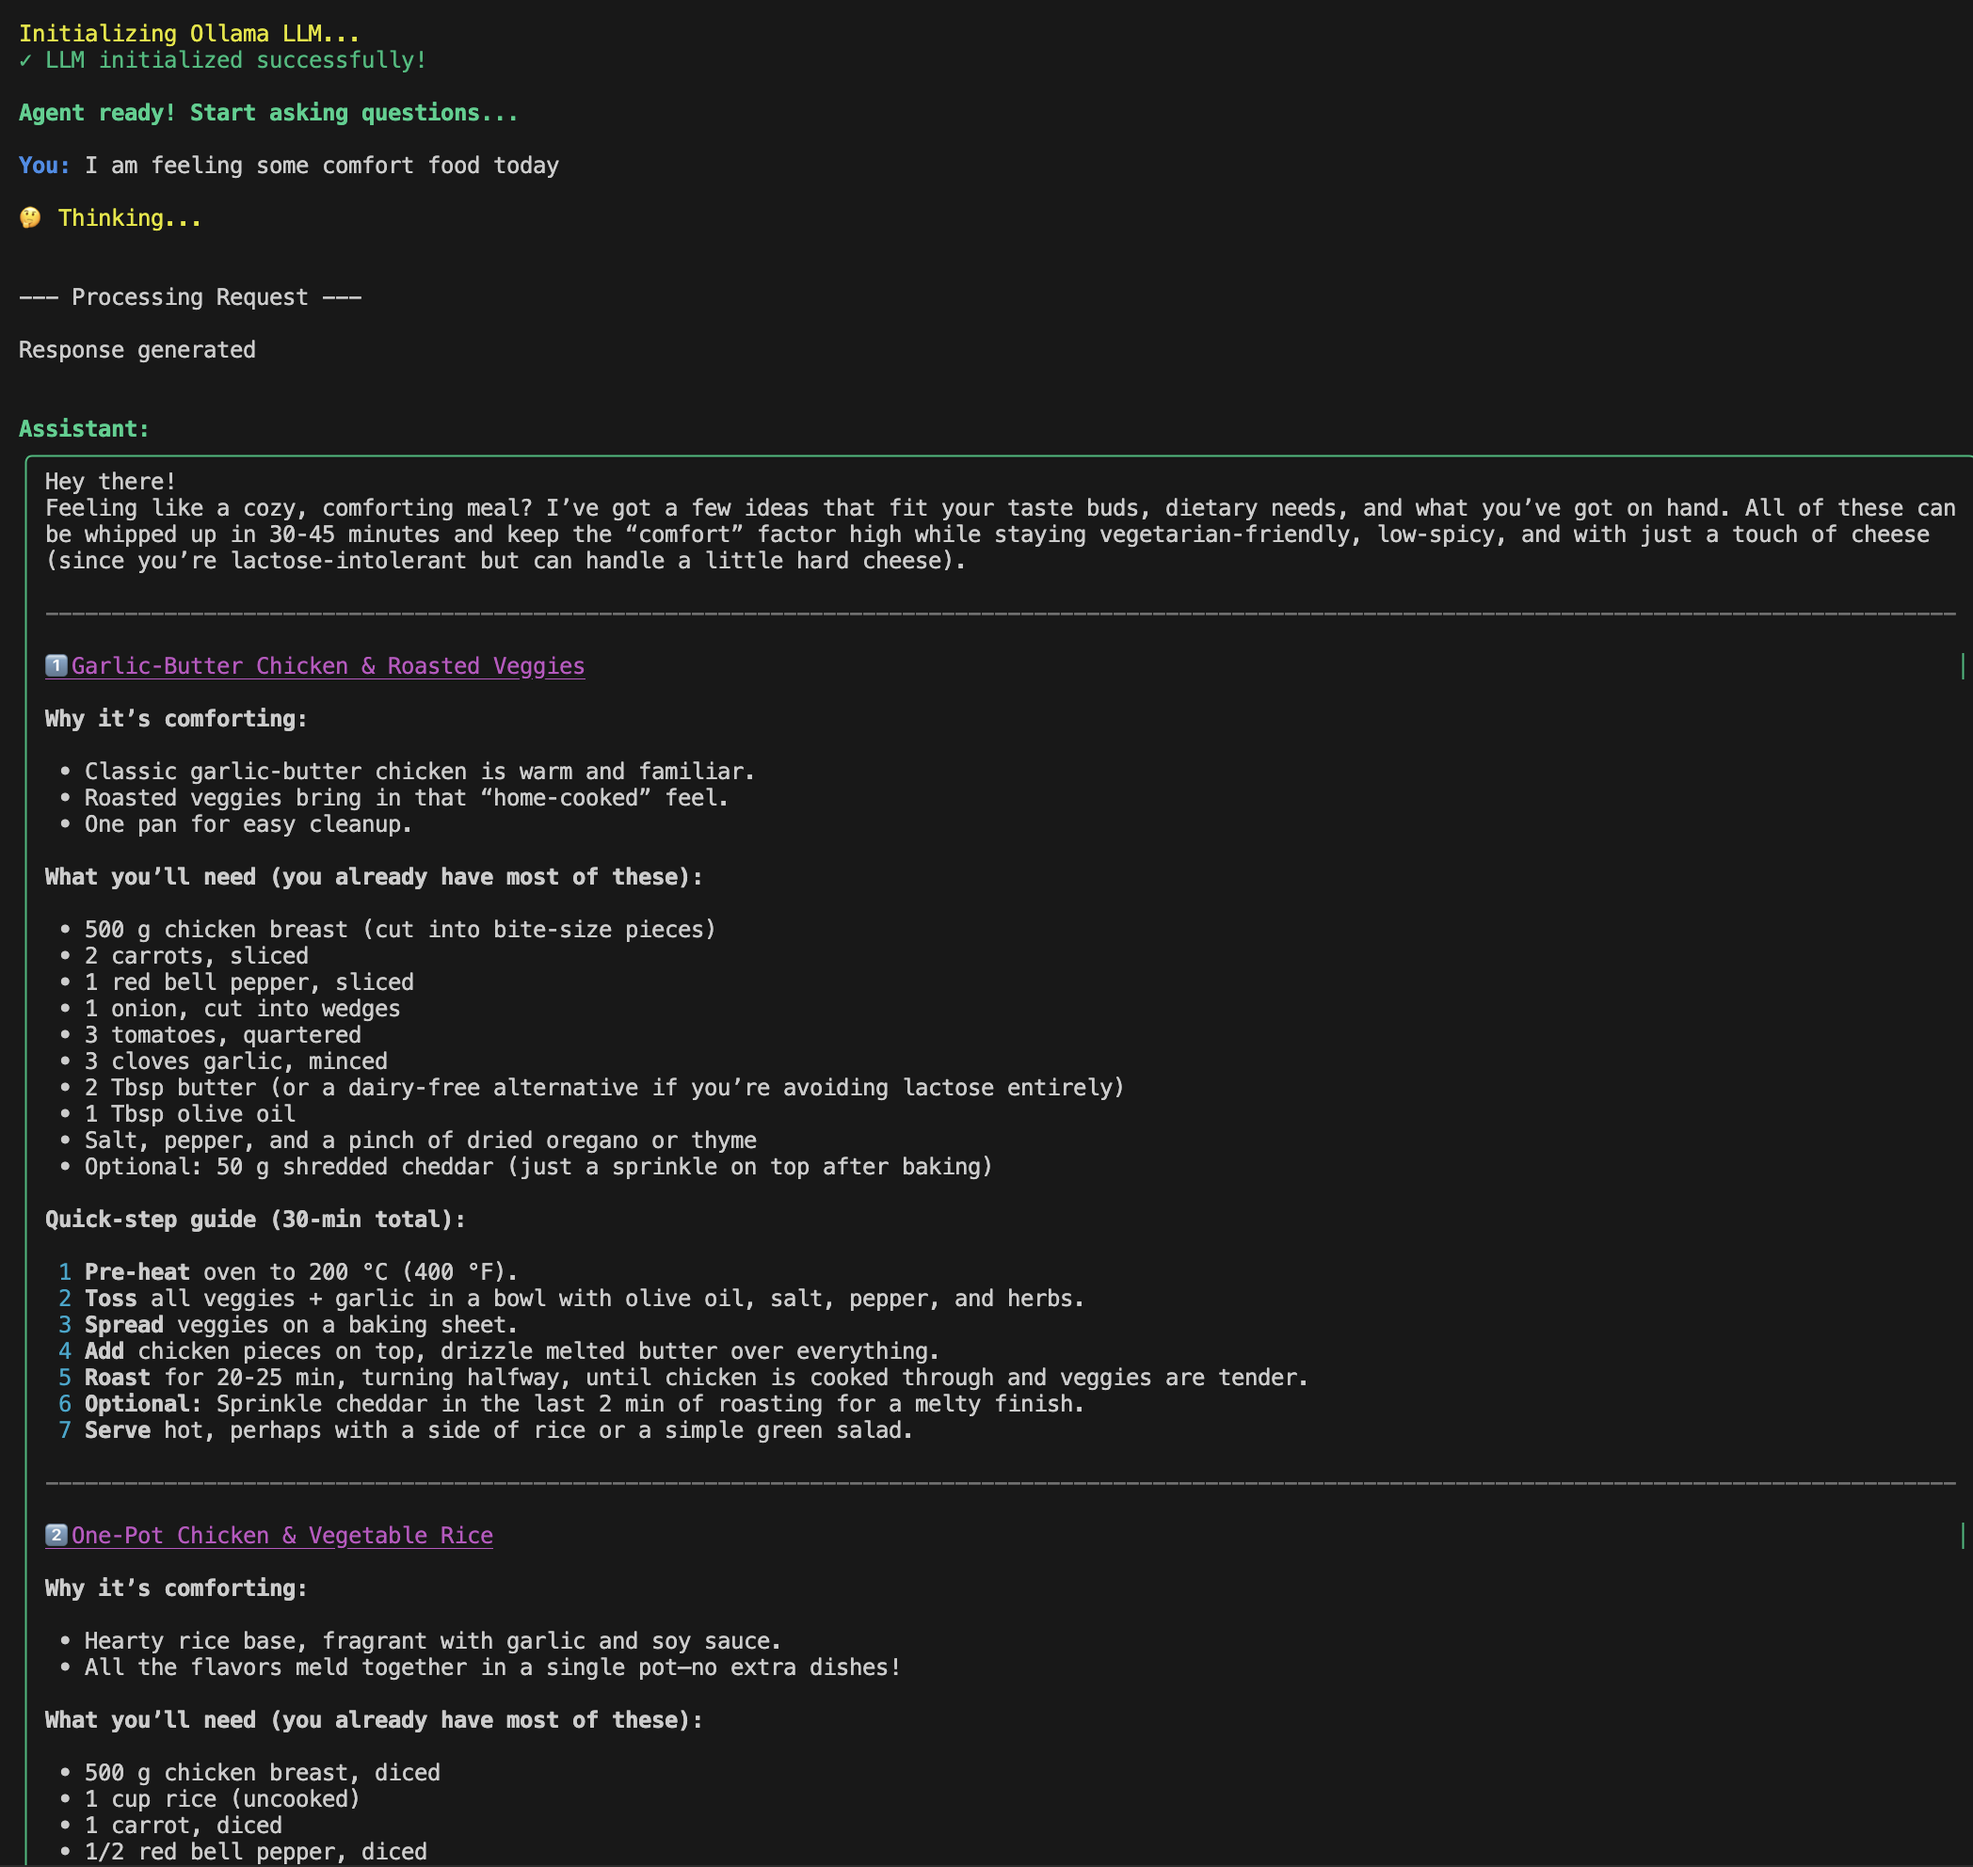
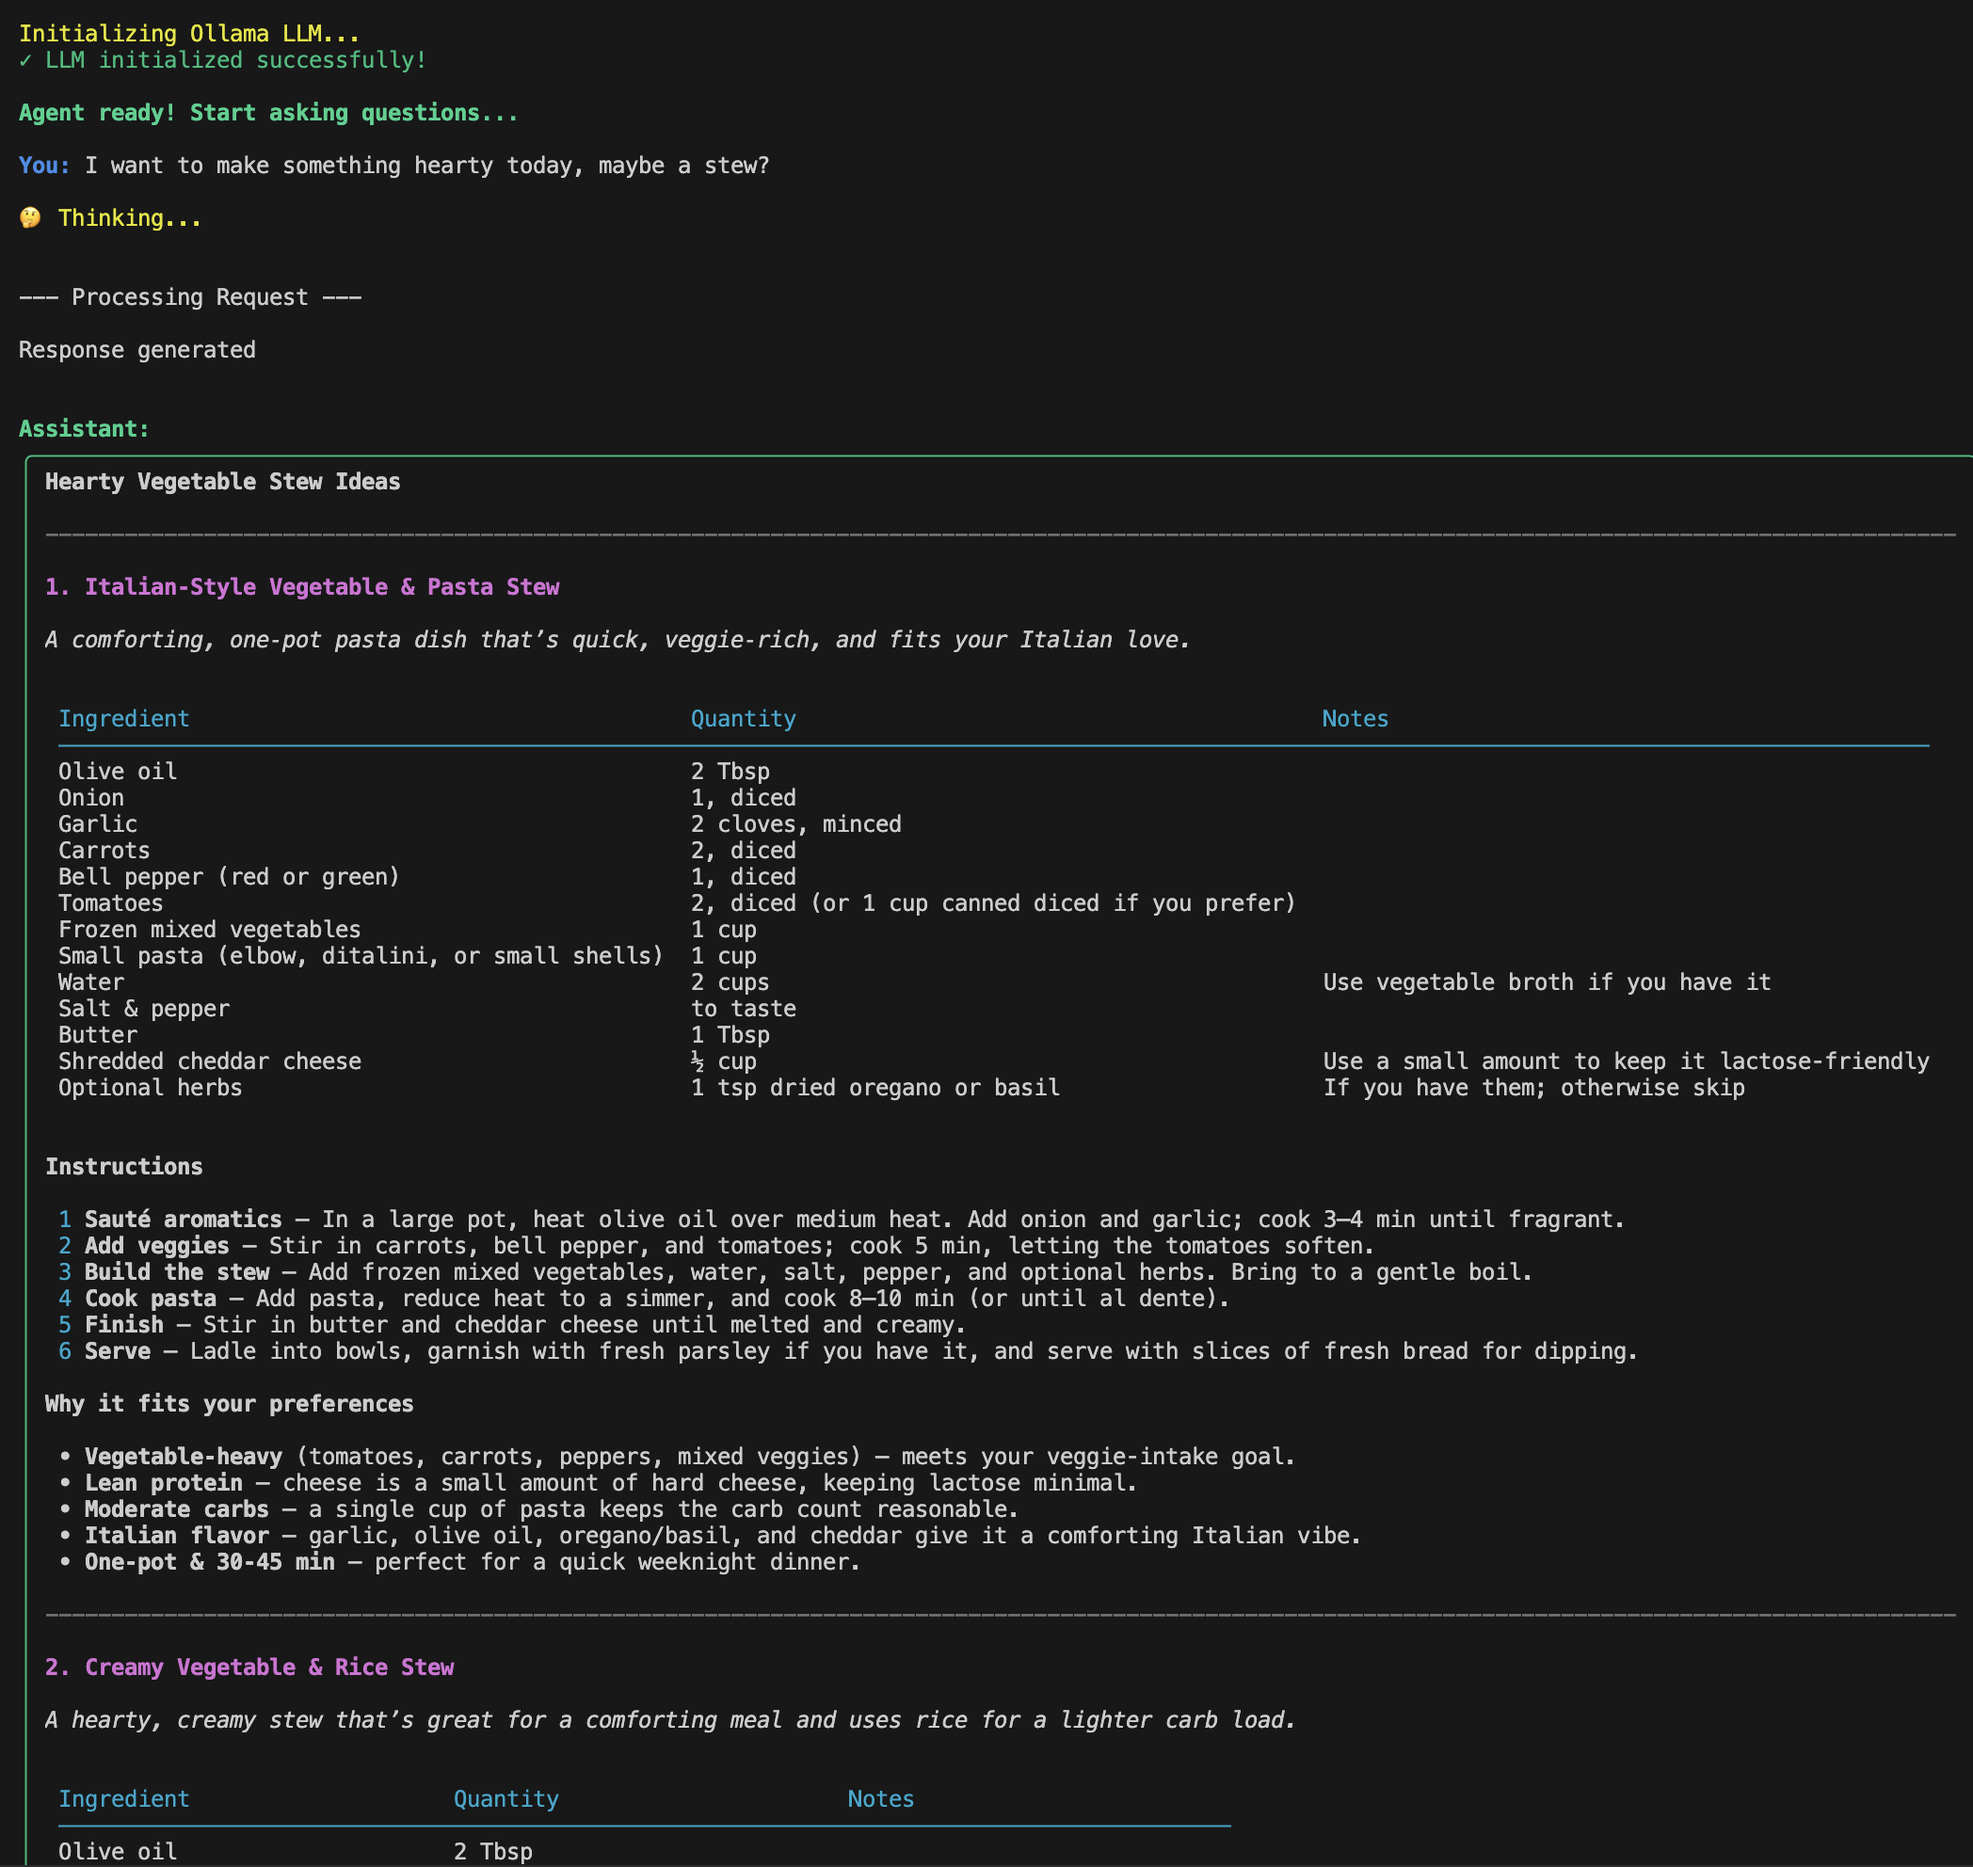
chore: update image to reflect prompt change

diff --git a/_posts/2026-03-13-How-I-Built-A-Local-AI-Agent-That-Helps-Me-Decide-What-I-Cook-For-Dinner.md b/_posts/2026-03-13-How-I-Built-A-Local-AI-Agent-That-Helps-Me-Decide-What-I-Cook-For-Dinner.md
@@ -18,7 +18,7 @@ This personal project intentionally explores the opposite direction: simplicity.
 
 So over this weekend, I built an AI agent that reads what’s in my fridge, remembers my food preferences, suggests recipes for dinner, and learns from our conversations histories. Before starting, I imposed a constraint on myself to keep the system simple and local. The result is a small agent that runs entirely on my laptop, stores state in markdown files, and uses Ollama for local model inference. It may not be reliable or scalable, but it certainly is fun!
 
-> Me: I am feeling some comfort food today...
+> Me: I want to make something hearty today, maybe a stew?
 {:.prompt-tip}
 
 ![](../assets/img/posts-assets/personal-chef-agent.png)
